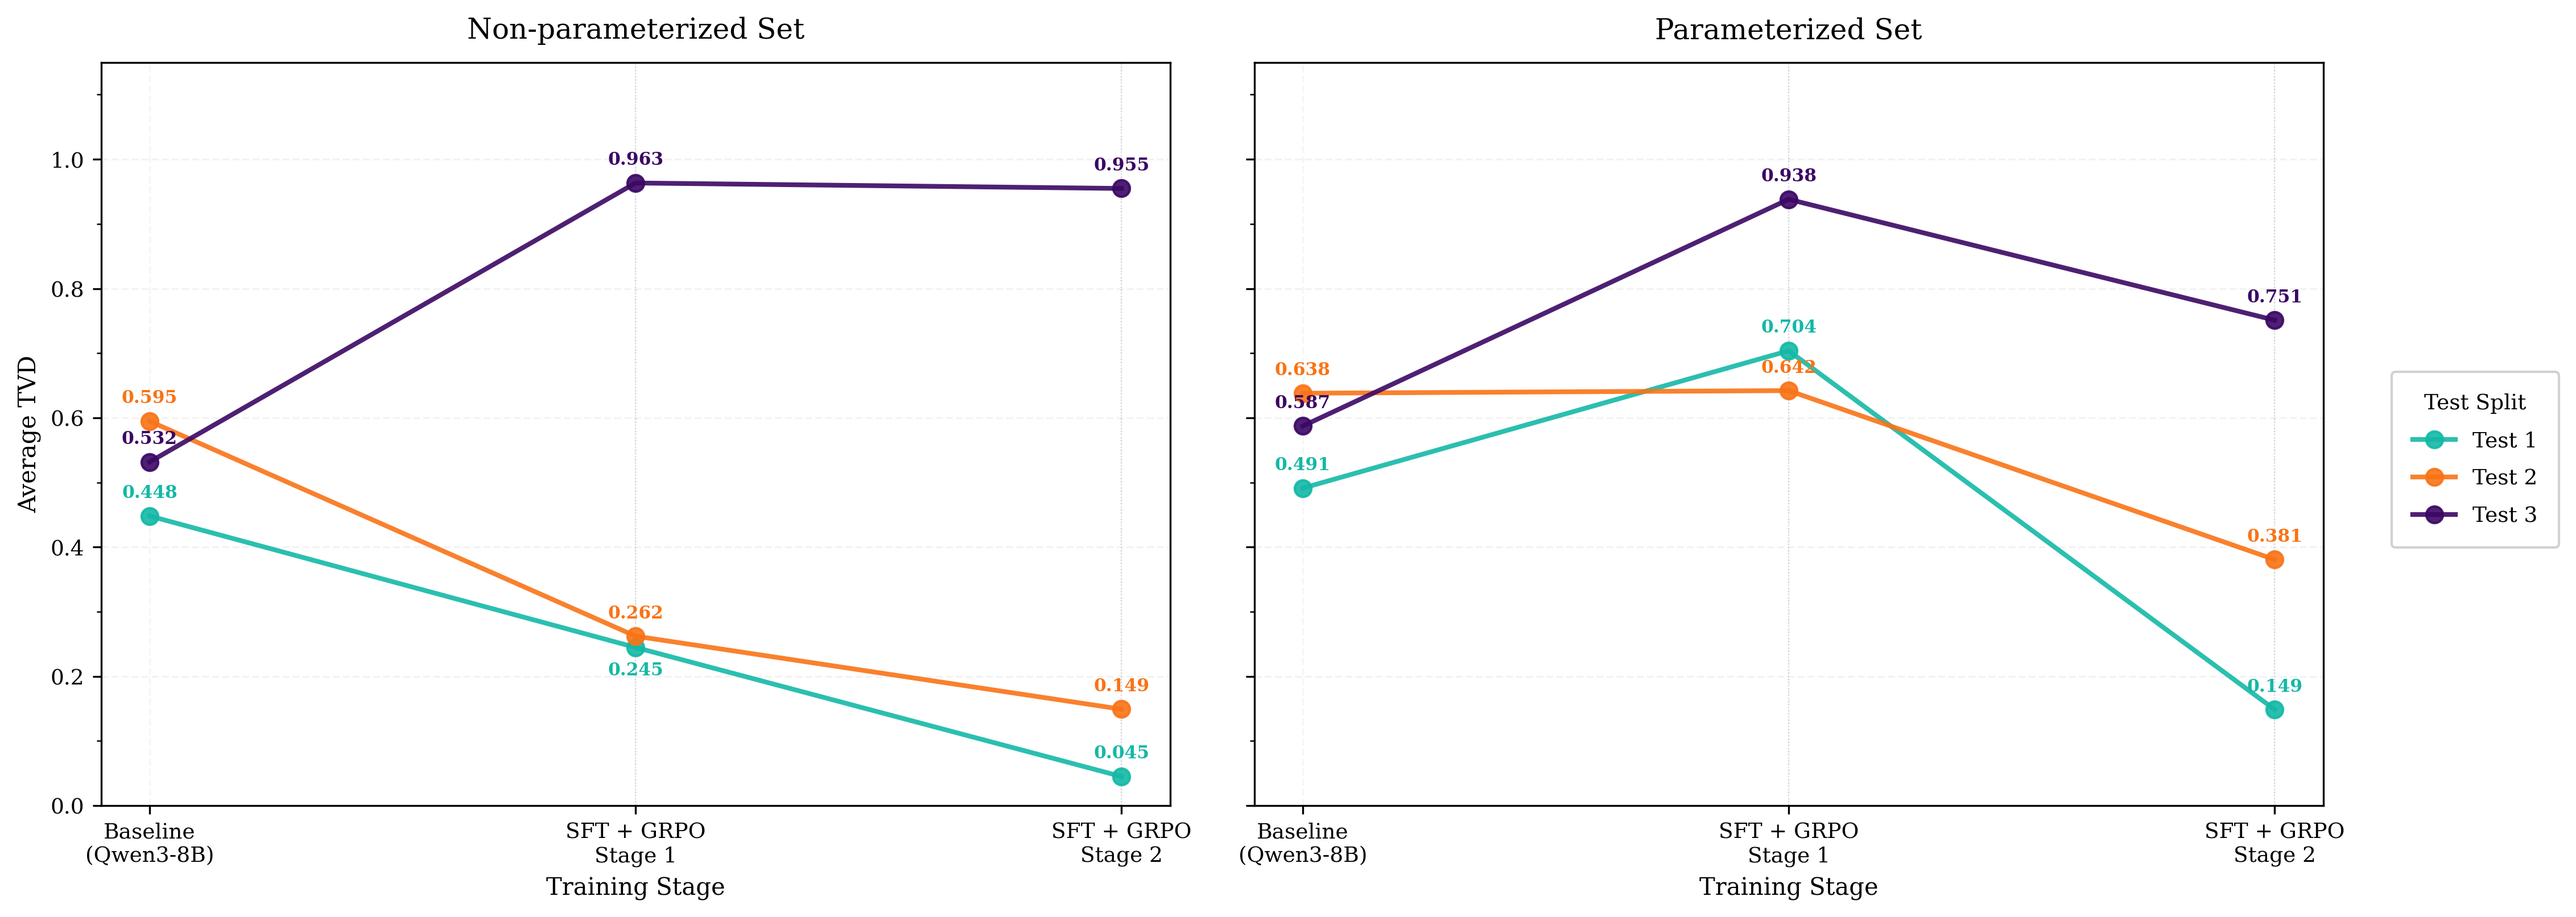
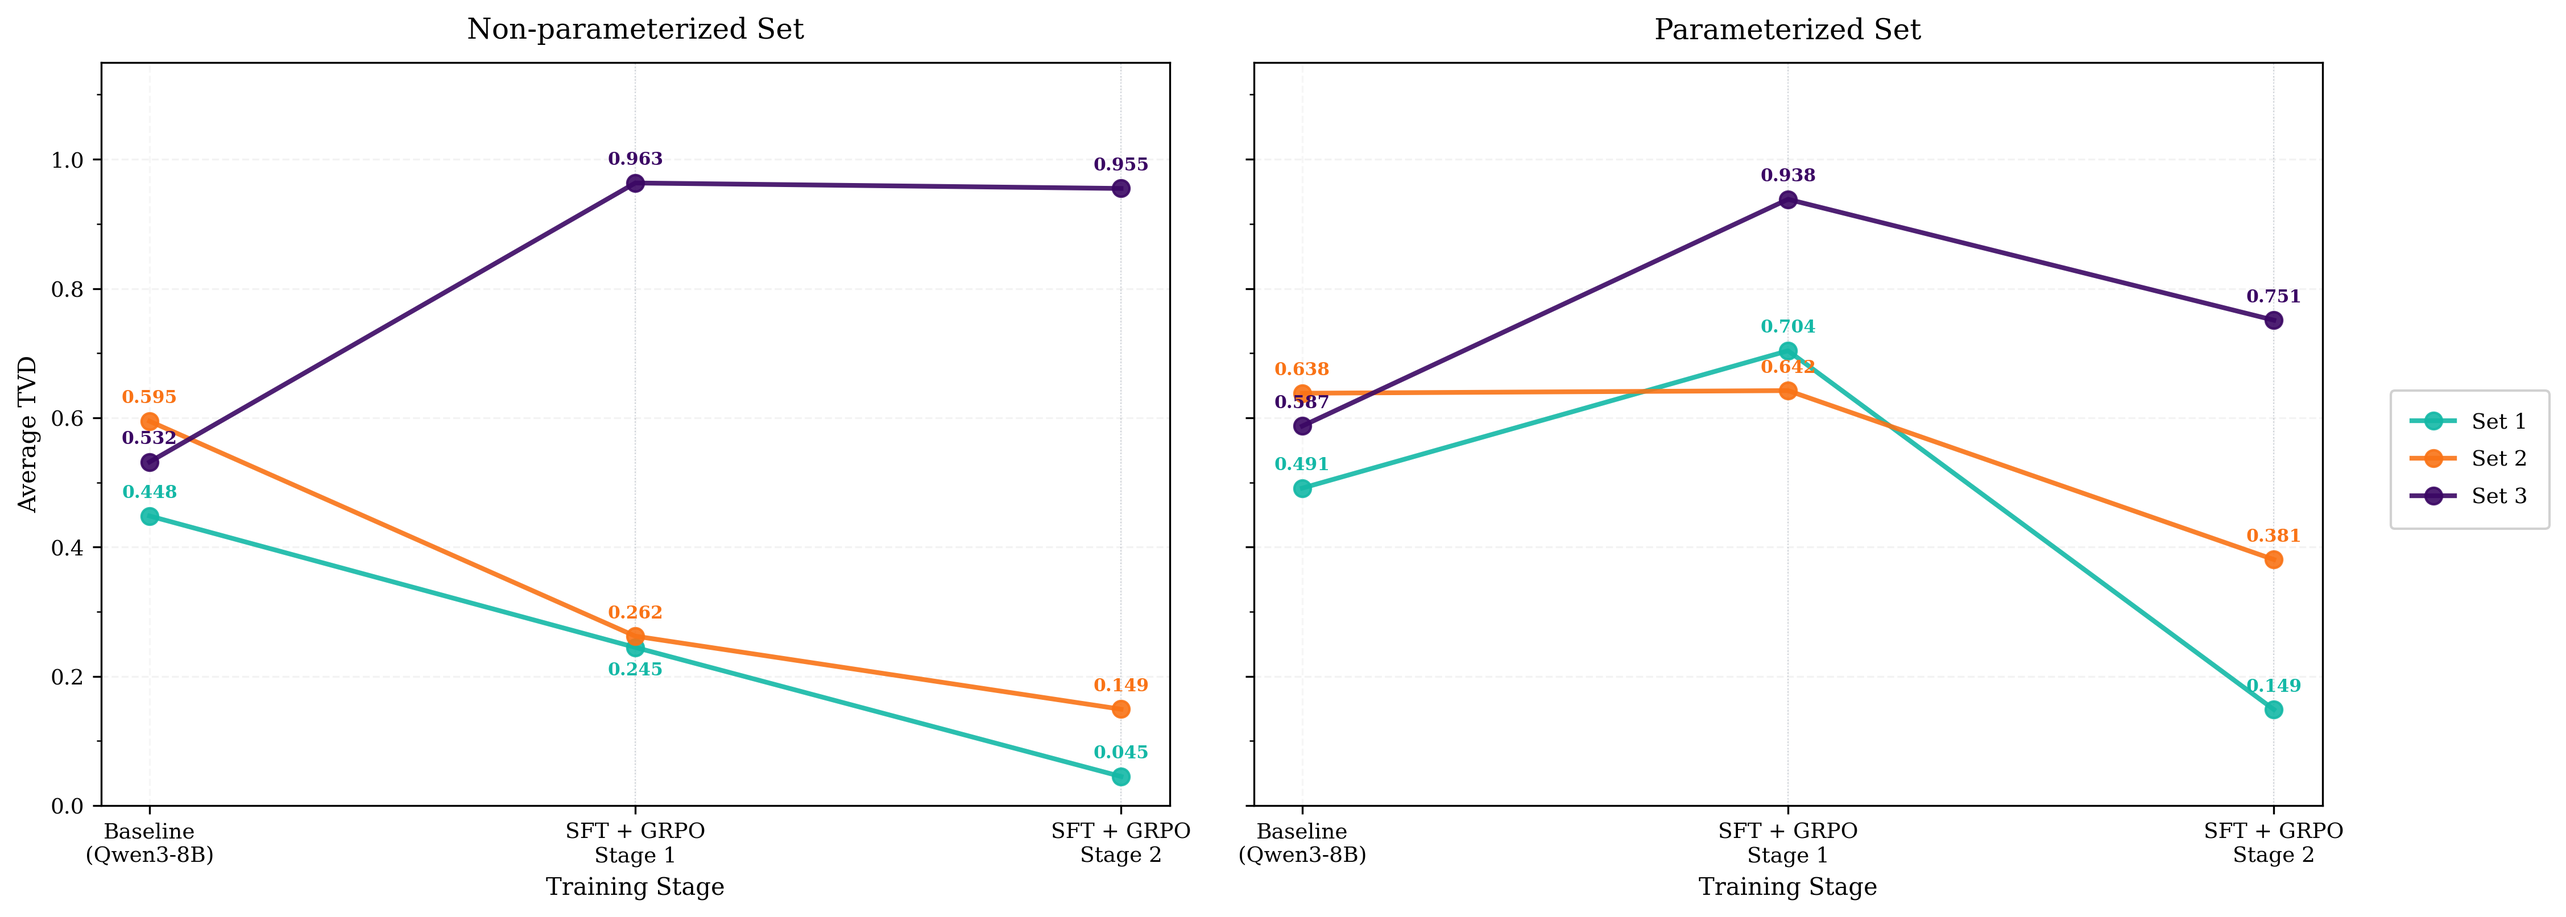
Update tvd plots

diff --git a/visualization/plot_tvd_training_progression.py b/visualization/plot_tvd_training_progression.py
@@ -32,7 +32,7 @@ _PARAM_DIRS = {
 }
 
 _TEST_SPLITS = ["test_1", "test_2", "test_3"]
-_SPLIT_LABELS = ["Test 1", "Test 2", "Test 3"]
+_SPLIT_LABELS = ["Set 1", "Set 2", "Set 3"]
 
 # ── colours ───────────────────────────────────────────────────────────────────
 # Stage colours (for grouped bar chart – one colour per stage)
@@ -141,7 +141,6 @@ def _bar_panel(
             loc="upper right",
             fontsize=8.5,
             framealpha=0.9,
-            title="Training Stage",
             title_fontsize=8.5,
             borderpad=0.8,
             labelspacing=0.6,
@@ -282,7 +281,6 @@ def plot_line_chart(
         bbox_to_anchor=(1.0, 0.5),
         fontsize=9,
         framealpha=0.9,
-        title="Test Split",
         title_fontsize=9,
         borderpad=1.0,
         labelspacing=0.8,
